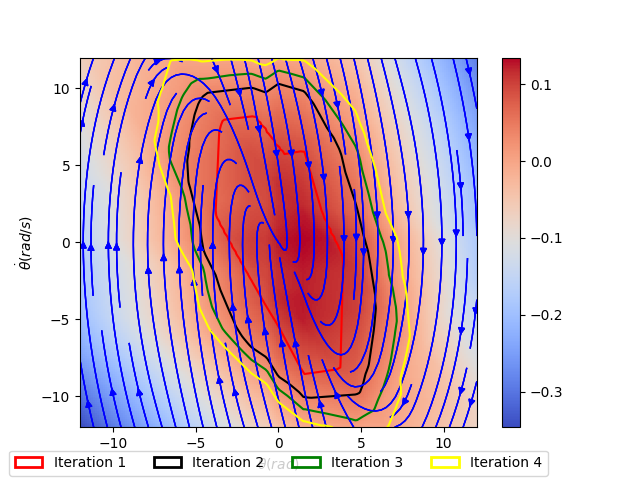
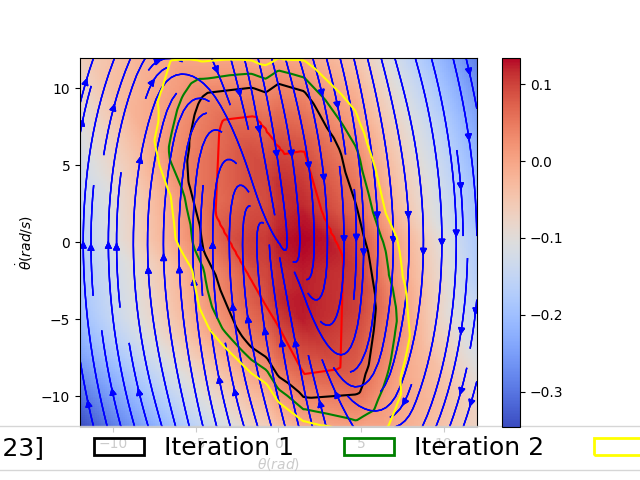
fixing bugs

Changed region(s): [[0.0, 0.875, 0.875, 1.0], [0.9062, 0.9062, 1.0, 0.9688]]

diff --git a/IP/IP_Pedram.py b/IP/IP_Pedram.py
@@ -20,8 +20,8 @@ parallel=False
 # from memory_profiler import profile
 if __name__=='__main__':
     with cProfile.Profile() as pr:
-        # NN_file="NN_files/model_2d_IP_8.pt"
-        NN_file="NN_files/model_IP_Pedram_n copy 2.pt"
+        NN_file="NN_files/model_2d_IP_8.pt"
+        # NN_file="NN_files/model_IP_Pedram_n copy 2.pt"
         # NN_file="NN_files/Inverted_Penduluem20.xlsx"
         # NN_file="NN_files/model_2d_simple_3.pt"
         # NN_file="NN_files/Path_following_20.xlsx"
@@ -40,7 +40,7 @@ if __name__=='__main__':
         TH=np.array([3.14,3.14])
         
         # plot_polytope_2D(NN_file,TH)
-        alpha=[0.1]
+        alpha=[0.04]
         X=[]
         Y=[]
         Z=[]
@@ -62,12 +62,12 @@ if __name__=='__main__':
 
         ax.contour(X[0],Y[0],Z_new,levels=[0],colors='red',linestyles='solid')
         plt.legend([plt.Rectangle((0,0),1,2,color='r',fill=False,linewidth = 2,linestyle='-'),plt.Rectangle((0,0),1,2,color='black',fill=False,linewidth = 2),plt.Rectangle((0,0),1,2,color='green',fill=False,linewidth = 2,linestyle='-'),plt.Rectangle((0,0),1,2,color='yellow',fill=False,linewidth = 2,linestyle='-')]\
-           ,["Iteration 1","iteration 2","Iteration 3","Iteration 4"],loc='upper right',fontsize=14)
+           ,["Invariant set[23]","Iteration 1","Iteration 2","Iteration 3"],loc='upper right',fontsize=14)
         plt.xlabel('$x_1$')
         plt.ylabel('$x_2$')
         alpha_p=alpha
         colors=['black','green','yellow','brown']
-        iteration=1
+        iteration=3
         for iter in range(iteration):
             alpha[0]=alpha[0]-0.1*alpha[0]
             NN,h,all_hyperplanes,all_bias,W_x,c_x,enumerate_poly ,D ,border_hype,border_bias,W_h,c_h=SISE_algorithm(NN,h,enumerate_poly,D,all_hyperplanes,all_bias,W_h,c_h,W_x,c_x,TH,border_hype,border_bias,zeros,eps1,eps2,alpha,parallel,NN_file,iter,bound)

diff --git a/Path_Following_new/ROA_all_plot.py b/Path_Following_new/ROA_all_plot.py
@@ -231,7 +231,7 @@ Model_org=torch.load(NN_Dai)
 # Lyap_model=Model_org.lyapunov
 # plot_level_set(Lyap_model,TH,'brown',[1])
 plt.legend([plt.Rectangle((0,0),1,2,color='g',fill=False,linewidth = 2,linestyle='-'),plt.Rectangle((0,0),1,2,color='orange',fill=False,linewidth = 2),plt.Rectangle((0,0),1,2,color='red',fill=False,linewidth = 2,linestyle='-')]\
-           ,["DITL","Lyapunov-Stable","Ours"] ,bbox_to_anchor =(0.5,-0.15), loc='lower center',fontsize=14, borderaxespad=0, ncol = 3)
+           ,["DITL","Lyapunov-Stable","Ours"] ,bbox_to_anchor =(0.5,-0.15), loc='lower center',fontsize=18, borderaxespad=0, ncol = 3)
 # plt.legend([plt.Rectangle((0,0),1,2,color='g',fill=False,linewidth = 1.5),plt.Rectangle((0,0),1,2,color='m',fill=False,linewidth = 1.5),\
 #             plt.Rectangle((0,0),1,2,color='tab:purple',fill=False,linewidth = 1.5),plt.Rectangle((0,0),1,2,color='k',fill=False,linewidth = 1.5),\
 #             plt.Rectangle((0,0),1,2,color='b',fill=False,linewidth = 1.5),rect],['Our Approach','NLC','UNL','SOS', 'LQR', 'Valid Region'], \

diff --git a/IP_Larger_Domain/ROA_all_plot.py b/IP_Larger_Domain/ROA_all_plot.py
@@ -234,7 +234,7 @@ plt.title('Inverted Pendulum')
 # Lyap_model=Model_org.lyapunov
 # plot_level_set(Lyap_model,TH,'brown',[1])
 plt.legend([plt.Rectangle((0,0),1,2,color='g',fill=False,linewidth = 2,linestyle='-'),plt.Rectangle((0,0),1,2,color='orange',fill=False,linewidth = 2),plt.Rectangle((0,0),1,2,color='red',fill=False,linewidth = 2,linestyle='-')]\
-           ,["DITL","Lyapunov-Stable","Ours"],loc='lower center',fontsize=14, bbox_to_anchor=(0.5, -0.2), ncol=3, frameon=True)
+           ,["DITL","Lyapunov-Stable","Ours"],loc='lower center',fontsize=18, bbox_to_anchor=(0.5, -0.2), ncol=3, frameon=True)
 # plt.legend([plt.Rectangle((0,0),1,2,color='g',fill=False,linewidth = 1.5),plt.Rectangle((0,0),1,2,color='m',fill=False,linewidth = 1.5),\
 #             plt.Rectangle((0,0),1,2,color='tab:purple',fill=False,linewidth = 1.5),plt.Rectangle((0,0),1,2,color='k',fill=False,linewidth = 1.5),\
 #             plt.Rectangle((0,0),1,2,color='b',fill=False,linewidth = 1.5),rect],['Our Approach','NLC','UNL','SOS', 'LQR', 'Valid Region'], \

diff --git a/IP/utils_Enumeration.py b/IP/utils_Enumeration.py
@@ -1274,3 +1274,28 @@ def finding_intersections(sides,hyperplane_val,n,hyp_f,hyperplanes,b,TH,parallel
     #     print("check")
     # print("Duraion1:",time.time()-st)
     return intersections_test
+
+
+@njit
+def Finding_Indicator_mat(enumerate_poly,all_hyperplanes,all_bias):
+    Mid_points=np.zeros((len(enumerate_poly),len(all_hyperplanes[0])))
+    indx=0
+    for i in enumerate_poly:
+        sum=np.sum(i,axis=0)
+        # sum=np.zeros(len(all_hyperplanes[0]))
+        # for j in i:
+            # sum=sum+j
+        Mid_points[indx]=(sum/len(i))
+        indx=indx+1
+    # Mid_points=[np.mean(i,axis=0) for i in enumerate_poly]
+    D_raw=(np.dot(all_hyperplanes,Mid_points.T)+all_bias).T
+    return D_raw
+
+def checking_sloution(slack,eps):
+    if np.max(slack)>=eps:
+        status=True
+        print("max salck is:",np.max(slack))
+        print("refinement is required")
+    else:
+        status=False
+    return status

diff --git a/IP_Larger_Domain/Main.py b/IP_Larger_Domain/Main.py
@@ -50,7 +50,7 @@ if __name__=='__main__':
 
         ax.contour(X[0],Y[0],Z_new,levels=[0],colors='red',linestyles='solid')
         plt.legend([plt.Rectangle((0,0),1,2,color='r',fill=False,linewidth = 2,linestyle='-'),plt.Rectangle((0,0),1,2,color='black',fill=False,linewidth = 2),plt.Rectangle((0,0),1,2,color='green',fill=False,linewidth = 2,linestyle='-'),plt.Rectangle((0,0),1,2,color='yellow',fill=False,linewidth = 2,linestyle='-')]\
-           ,["Iteration 1","Iteration 2","Iteration 3","Iteration 4"],loc='lower center', bbox_to_anchor=(0.5, -0.15), ncol=4, frameon=True)
+           ,["Invariant Set[23]","Iteration 1","Iteration 2","Iteration 3"],loc='lower center',fontsize=18, bbox_to_anchor=(0.5, -0.15), ncol=4, frameon=True)
         plt.xlabel('$\\theta(rad)$')
         plt.ylabel('$\\dot{\\theta}(rad/s)$')
         alpha_p=alpha

diff --git a/Path_Following_new/Main.py b/Path_Following_new/Main.py
@@ -49,7 +49,7 @@ if __name__=='__main__':
 
         ax.contour(X[0],Y[0],Z_new,levels=[0],colors='red',linestyles='solid')
         plt.legend([plt.Rectangle((0,0),1,2,color='r',fill=False,linewidth = 2,linestyle='-'),plt.Rectangle((0,0),1,2,color='black',fill=False,linewidth = 2),plt.Rectangle((0,0),1,2,color='green',fill=False,linewidth = 2,linestyle='-'),plt.Rectangle((0,0),1,2,color='yellow',fill=False,linewidth = 2,linestyle='-')]\
-           ,["Iteration 1","Iteration 2","Iteration 3"],loc='lower center', bbox_to_anchor=(0.5, -0.15), ncol=4, frameon=True)
+           ,["Invariant Set[23]","Iteration 1","Iteration 2"],loc='lower center', bbox_to_anchor=(0.5, -0.15), ncol=4, frameon=True,prop={'size': 18})
         plt.xlabel('Distance error')
         plt.ylabel('Angle error')
         alpha_p=alpha

diff --git a/Path_Following_new/Updating_Zero_LevelSets.py b/Path_Following_new/Updating_Zero_LevelSets.py
@@ -251,8 +251,8 @@ def finding_all_info(index_list,V,points,hyperplanes,biases,W_h,D,c_h,TH):
         vertex=np.reshape(np.copy(i),(1,len(i)))
         h=(W_h@np.diag(D[index_list[j]])@(hyperplanes@vertex.T+biases)+c_h)
         h_new=W_h@np.maximum(hyperplanes@vertex.T+biases,0)+c_h
-        if h-h_new>1e-5:
-            print("check")
+        # if h-h_new>1e-5:
+        #     print("check")
         if np.any(TH-i>=-1e-6) or np.any(i+TH>=-1e-6):
             # boundary_points.append(i)
             b_reg.append(index_list[j])
